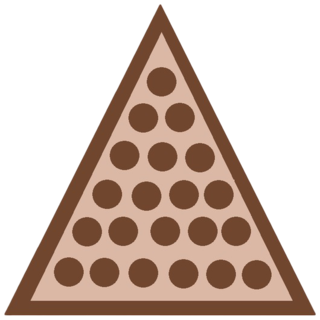
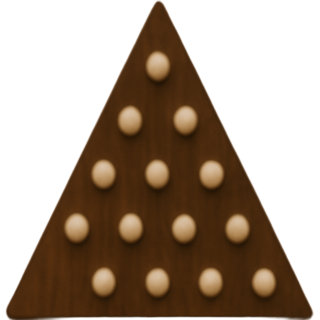
style: se cambio las imagenes y colores de SeleccionNiveles, SeleccionJuego

diff --git a/src/main/java/grupo8/senku/UI/Seleccionjuego.java b/src/main/java/grupo8/senku/UI/Seleccionjuego.java
@@ -47,11 +47,12 @@ public class Seleccionjuego extends javax.swing.JFrame {
         seleccionJuego.setBackground(new java.awt.Color(180, 132, 108));
         seleccionJuego.setOpaque(false);
 
-        contenedorTriangulo.setBackground(new java.awt.Color(125, 90, 80));
+        contenedorTriangulo.setBackground(new java.awt.Color(106, 65, 60));
 
         opcionTriangulo.setBackground(new java.awt.Color(125, 90, 80));
         opcionTriangulo.setIcon(new javax.swing.ImageIcon(getClass().getResource("/triangulo.png"))); // NOI18N
         opcionTriangulo.setBorderPainted(false);
+        opcionTriangulo.setContentAreaFilled(false);
         opcionTriangulo.setRolloverEnabled(false);
         opcionTriangulo.setVerifyInputWhenFocusTarget(false);
         opcionTriangulo.addActionListener(new java.awt.event.ActionListener() {
@@ -60,7 +61,9 @@ public class Seleccionjuego extends javax.swing.JFrame {
             }
         });
 
+        dificultadTriangulo.setBackground(new java.awt.Color(255, 255, 255));
         dificultadTriangulo.setFont(new java.awt.Font("Segoe UI", 1, 24)); // NOI18N
+        dificultadTriangulo.setForeground(new java.awt.Color(255, 255, 255));
         dificultadTriangulo.setHorizontalAlignment(javax.swing.SwingConstants.CENTER);
         dificultadTriangulo.setText("DIFICULTAD FACIL");
 
@@ -86,12 +89,13 @@ public class Seleccionjuego extends javax.swing.JFrame {
                 .addContainerGap())
         );
 
-        contenedorCruz.setBackground(new java.awt.Color(125, 90, 80));
+        contenedorCruz.setBackground(contenedorTriangulo.getBackground());
         contenedorCruz.setPreferredSize(new java.awt.Dimension(320, 320));
 
         opcionCruz.setBackground(new java.awt.Color(125, 90, 80));
         opcionCruz.setIcon(new javax.swing.ImageIcon(getClass().getResource("/cruz.png"))); // NOI18N
         opcionCruz.setBorderPainted(false);
+        opcionCruz.setContentAreaFilled(false);
         opcionCruz.setRolloverEnabled(false);
         opcionCruz.setVerifyInputWhenFocusTarget(false);
         opcionCruz.addActionListener(new java.awt.event.ActionListener() {
@@ -101,6 +105,7 @@ public class Seleccionjuego extends javax.swing.JFrame {
         });
 
         dificultadCruz.setFont(new java.awt.Font("Segoe UI", 1, 24)); // NOI18N
+        dificultadCruz.setForeground(new java.awt.Color(255, 255, 255));
         dificultadCruz.setHorizontalAlignment(javax.swing.SwingConstants.CENTER);
         dificultadCruz.setText("DIFICULTAD DIFICIL");
 
@@ -123,9 +128,11 @@ public class Seleccionjuego extends javax.swing.JFrame {
                 .addContainerGap())
         );
 
-        menu.setBackground(new java.awt.Color(215, 161, 117));
+        menu.setBackground(new java.awt.Color(106, 65, 60));
         menu.setIcon(new javax.swing.ImageIcon(getClass().getResource("/casa.png"))); // NOI18N
         menu.setBorderPainted(false);
+        menu.setContentAreaFilled(false);
+        menu.setFocusPainted(false);
         menu.addActionListener(new java.awt.event.ActionListener() {
             public void actionPerformed(java.awt.event.ActionEvent evt) {
                 menuActionPerformed(evt);

diff --git a/src/main/java/grupo8/senku/UI/SeleccionNiveles.java b/src/main/java/grupo8/senku/UI/SeleccionNiveles.java
@@ -43,7 +43,7 @@ public class SeleccionNiveles extends javax.swing.JFrame {
         seleccionNiveles.setBackground(new java.awt.Color(180, 132, 108));
         seleccionNiveles.setOpaque(false);
 
-        nivelUno.setBackground(new java.awt.Color(125, 90, 80));
+        nivelUno.setBackground(new java.awt.Color(106, 65, 60));
         nivelUno.setFont(new java.awt.Font("Segoe UI", 0, 100)); // NOI18N
         nivelUno.setText("1");
         nivelUno.setBorderPainted(false);
@@ -63,6 +63,7 @@ public class SeleccionNiveles extends javax.swing.JFrame {
         atras.setBackground(new java.awt.Color(215, 161, 117));
         atras.setIcon(new javax.swing.ImageIcon(getClass().getResource("/atras.png"))); // NOI18N
         atras.setBorderPainted(false);
+        atras.setContentAreaFilled(false);
         atras.addActionListener(new java.awt.event.ActionListener() {
             public void actionPerformed(java.awt.event.ActionEvent evt) {
                 atrasActionPerformed(evt);
@@ -73,6 +74,7 @@ public class SeleccionNiveles extends javax.swing.JFrame {
         menu.setBackground(new java.awt.Color(215, 161, 117));
         menu.setIcon(new javax.swing.ImageIcon(getClass().getResource("/casa.png"))); // NOI18N
         menu.setBorderPainted(false);
+        menu.setContentAreaFilled(false);
         menu.addActionListener(new java.awt.event.ActionListener() {
             public void actionPerformed(java.awt.event.ActionEvent evt) {
                 menuActionPerformed(evt);

diff --git a/src/main/java/grupo8/senku/UI/FondoJugar.java b/src/main/java/grupo8/senku/UI/FondoJugar.java
@@ -1,25 +1,22 @@
-package grupo8.senku.UI;
-
-import java.awt.Graphics;
-import java.awt.Image;
-import javax.swing.ImageIcon;
-import javax.swing.JPanel;
-
 /*
  * Click nbfs://nbhost/SystemFileSystem/Templates/Licenses/license-default.txt to change this license
  * Click nbfs://nbhost/SystemFileSystem/Templates/Classes/Class.java to edit this template
  */
-
+package grupo8.senku.UI;
+import java.awt.Graphics;
+import java.awt.Image;
+import javax.swing.ImageIcon;
+import javax.swing.JPanel;
 /**
  *
- * @author pablo
+ * @author brenda
  */
-public class FondoApp extends JPanel {
+public class FondoJugar extends JPanel {
     private Image imagen;
     @Override
     public void paint(Graphics g) {
         super.paintComponent(g);
-        imagen = new ImageIcon(getClass().getResource("/fondo2.png")).getImage();
+        imagen = new ImageIcon(getClass().getResource("/img/borr.jpg")).getImage();
         g.drawImage(imagen, 0, 0, getWidth(), getHeight(), this);
         setOpaque(false);
         super.paint(g);

diff --git a/src/main/java/grupo8/senku/UI/FrameJugar.java b/src/main/java/grupo8/senku/UI/FrameJugar.java
@@ -17,13 +17,13 @@ import javax.swing.JComponent;
  */
 public class FrameJugar extends javax.swing.JFrame {
     private ControllerUI control;
-    private FondoApp fondo;
+    private FondoJugar fondo;
     /**
      * Creates new form FrameJugar2
      */
     public FrameJugar(ControllerUI control) {
         this.control = control;
-        fondo = new FondoApp();
+        fondo = new FondoJugar();
         this.setContentPane(fondo);
         initComponents();
         personalizarBoton();
